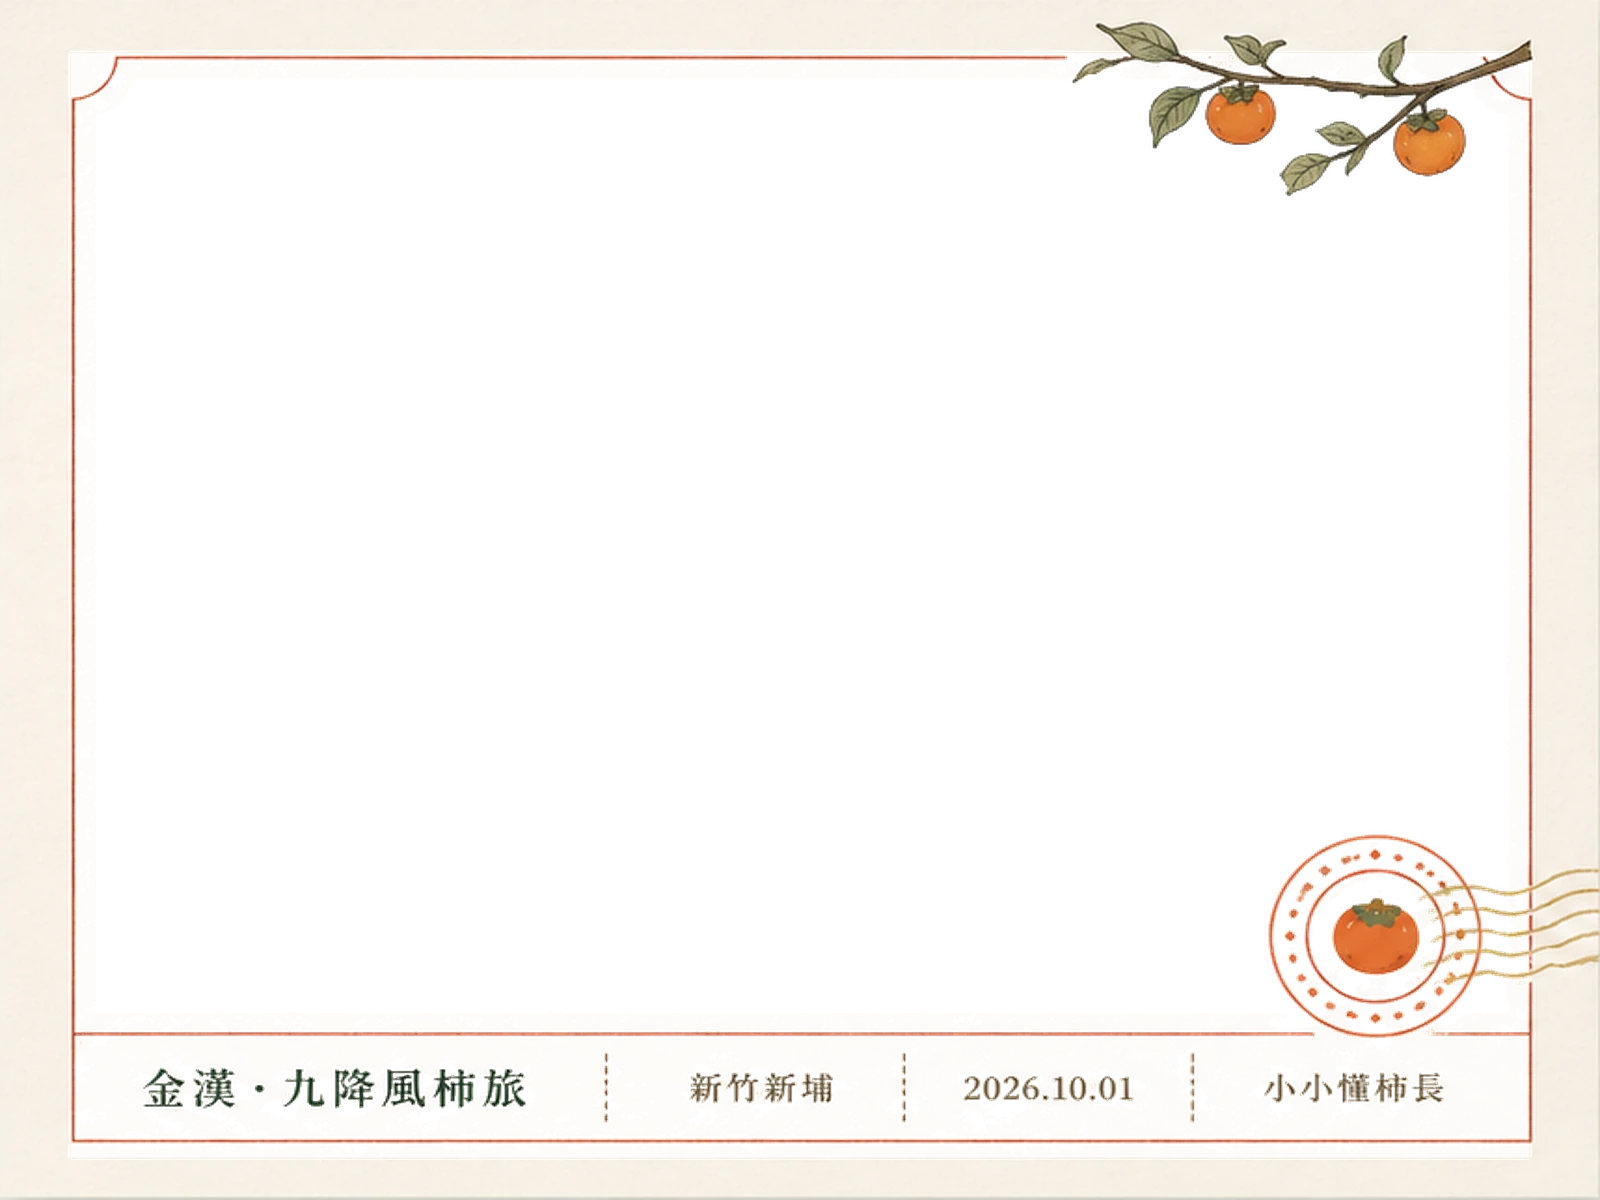
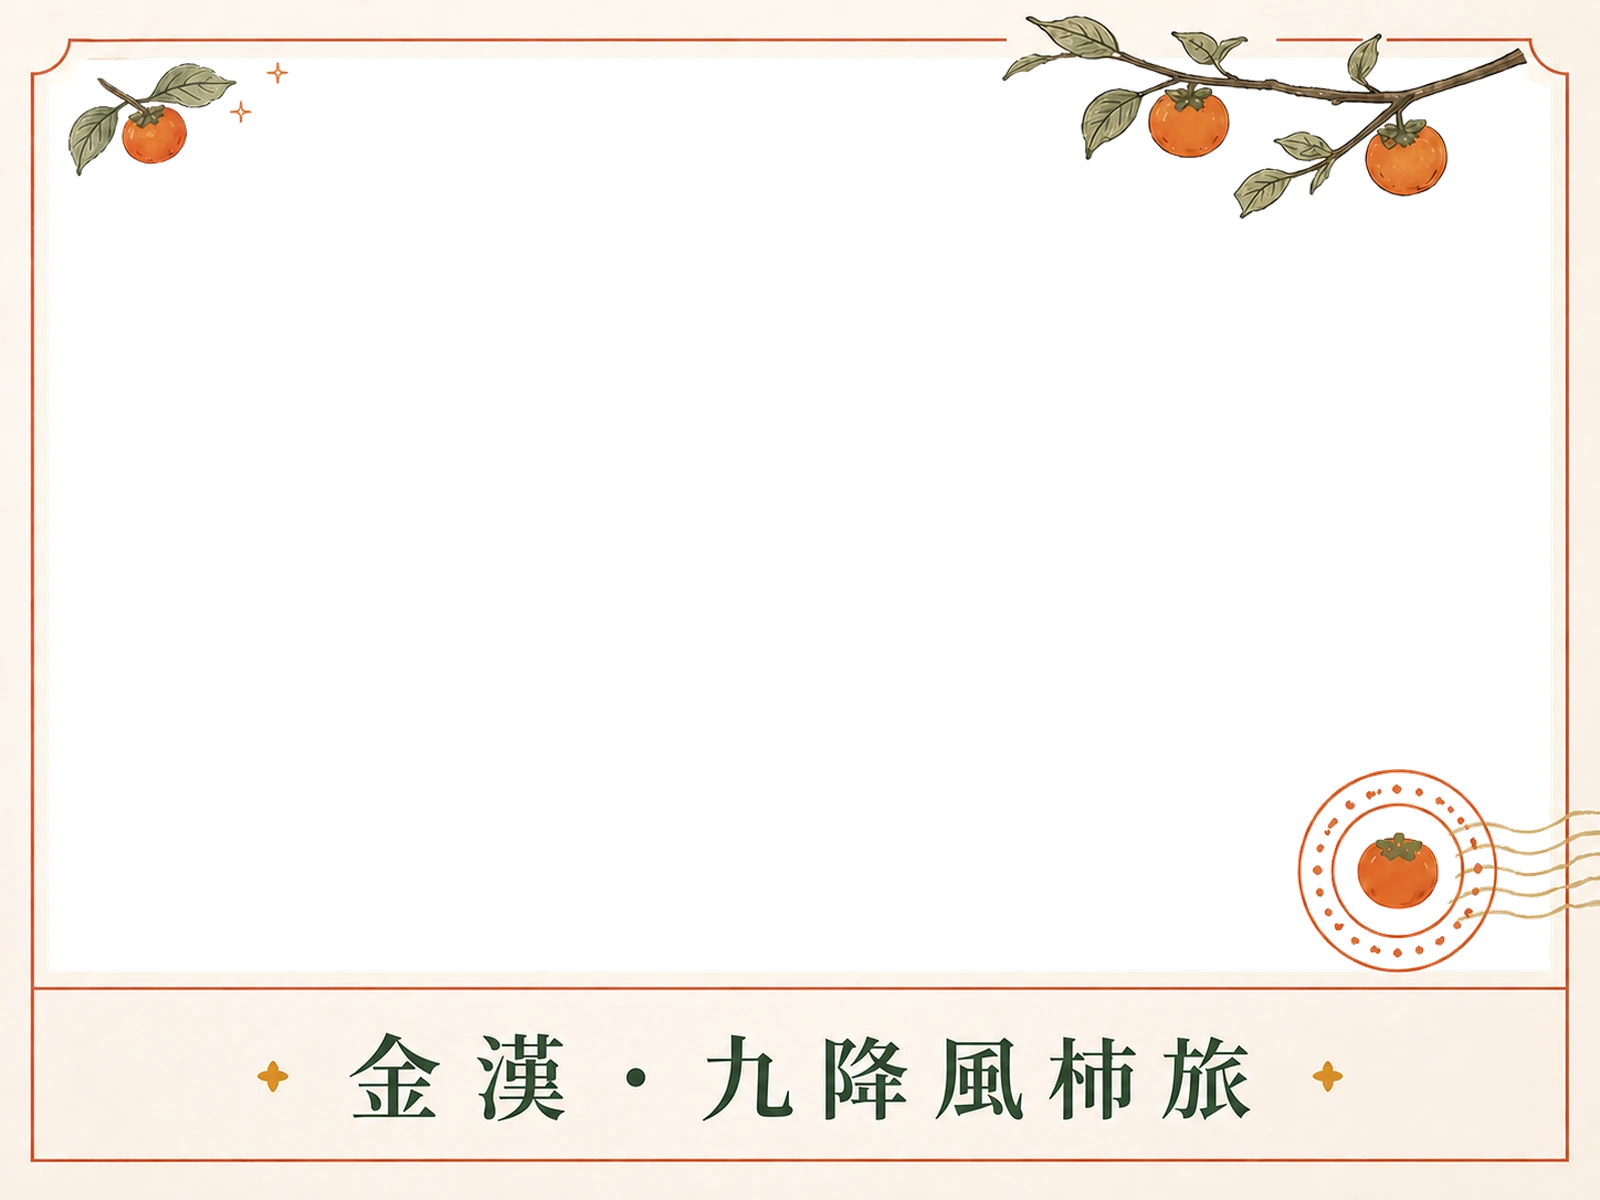
Refresh portrait and landscape farm postcard frames and remove photo metadata

Changed region(s): [[0.0, 0.0, 1.0, 1.0]]

diff --git a/app.js b/app.js
@@ -733,7 +733,7 @@ function loadPhotoFrame(style, orientation) {
     const image=new Image();
     image.onload=()=>{photoFrameImages[key]=image;resolve(image);};
     image.onerror=error=>{delete photoFramePromises[key];reject(error);};
-    image.src=`assets/photo-frames/${key}.webp?v=3`;
+    image.src=`assets/photo-frames/${key}.webp?v=${style === 'postcard' ? '4' : '3'}`;
     });
   }
   return photoFramePromises[key];
@@ -754,16 +754,6 @@ function drawPhoto() {
   const key=`${photoEffect}-${canvas.dataset.orientation}`;
   const frame=photoFrameImages[key];
   if (frame) ctx.drawImage(frame,0,0,w,h);
-  if (photoEffect === 'postcard' && frame) drawPostcardDetails(ctx,w,h);
-}
-function drawPostcardDetails(ctx,w,h) {
-  const u=Math.min(w,h)/1080;
-  const footer=h*.14, top=h-footer;
-  ctx.fillStyle='rgba(255,249,232,.98)'; ctx.fillRect(36*u,top,w-72*u,footer);
-  ctx.strokeStyle='#aa5433'; ctx.lineWidth=2*u; ctx.beginPath(); ctx.moveTo(44*u,top); ctx.lineTo(w-44*u,top); ctx.stroke();
-  ctx.textAlign='center'; ctx.fillStyle='#345133'; ctx.font=`900 ${28*u}px Microsoft JhengHei`; ctx.fillText('金漢・九降風柿旅',w/2,top+footer*.48);
-  const date=new Intl.DateTimeFormat('zh-TW',{year:'numeric',month:'2-digit',day:'2-digit'}).format(new Date());
-  ctx.fillStyle='#6d533e'; ctx.font=`700 ${18*u}px Microsoft JhengHei`; ctx.fillText(`新竹新埔　｜　${date}　｜　${state.name || '小小懂柿長'}`,w/2,top+footer*.76);
 }
 function canvasBlob() { return new Promise(resolve => document.querySelector('#photo-canvas')?.toBlob(resolve,'image/jpeg',.92)); }
 async function sharePhoto() {

diff --git a/index.html b/index.html
@@ -18,6 +18,6 @@
   <div id="toast" class="toast" role="status" aria-live="polite"></div>
   <script src="qr-locks.js" defer></script>
   <script src="assets/vendor/html5-qrcode.min.js" defer></script>
-  <script src="app.js?v=20260830" defer></script>
+  <script src="app.js?v=20260830-postcard" defer></script>
 </body>
 </html>
